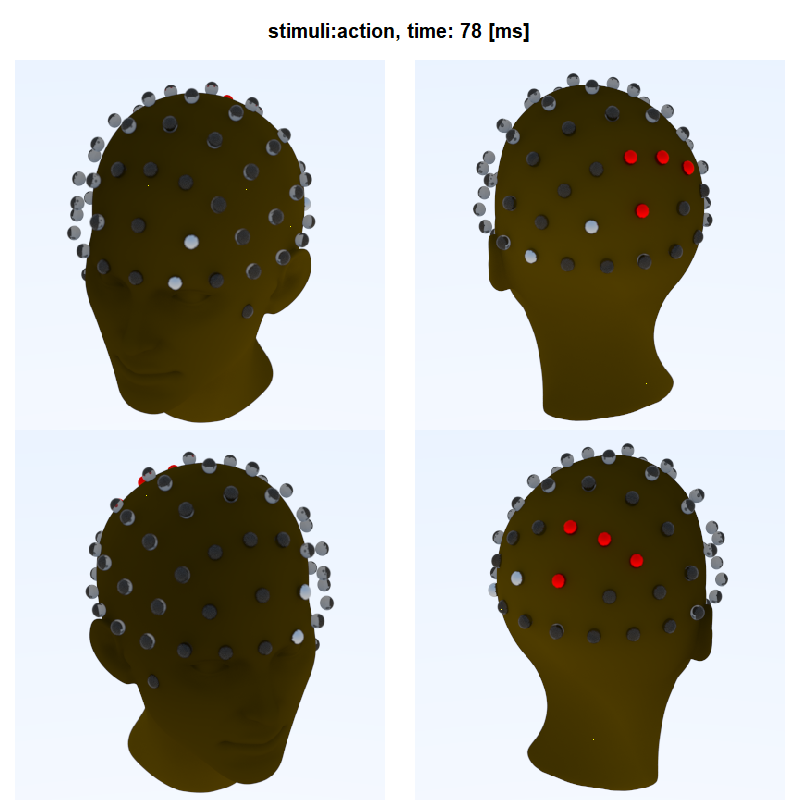
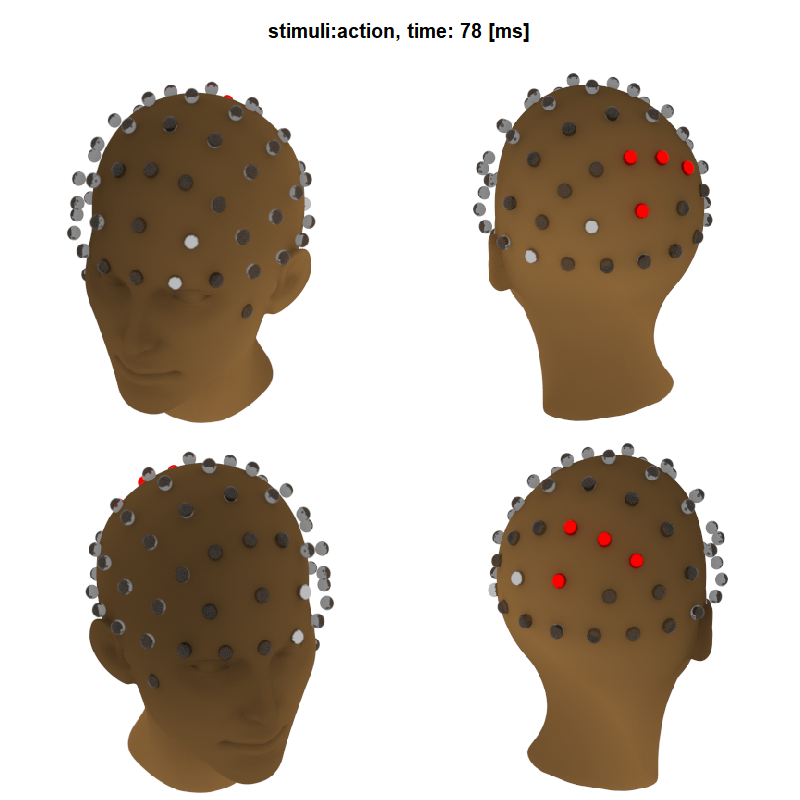
change rayrender

diff --git a/content/post/2019-11-10-visualisation-of-the-cluster-mass-test-using-rayrender/index.html b/content/post/2019-11-10-visualisation-of-the-cluster-mass-test-using-rayrender/index.html
@@ -92,7 +92,7 @@ df &lt;- df%&gt;%
 head_obj &lt;- &quot;FemaleHead/11091_FemaleHead_v4.obj&quot;
 
 ## Define the color of the face
-face_col &lt;- rgb(50,25,00, maxColorValue = 255)
+face_col &lt;- rgb(139,69,19, maxColorValue = 255)
 
 ## Add the face in a scene
 scene_head &lt;- NULL
@@ -104,7 +104,7 @@ scene_head &lt;- scene_head%&gt;%
 render_scene(scene_head)</code></pre>
 <p><img src="/img/head.png" /></p>
 <p>Using the default setting the point of view of the image is not interesting. We will change it for the final results by adjusting parameters in the render_scene() function. If you are not familiar with <a href="http://www.rayrender.net/">rayrender</a>, feel free to change scale, colors angle and material to see their effects on the image.</p>
-<p>Next we construct the headset by assembling several spheres representing each electrode. We will display the tests of the 40th time-point (78 ms). Electrodes in metallic-red are inside a significant cluster, in metallic grey are inside a non-significant cluster and the transparent one are not part of a cluster. Using <a href="http://www.rayrender.net/">rayrender</a>, we construct all 64 electrodes in the appropriate position, using a for loop and, using the group_objects() function, we group them into a unique 3D object that we can manipulate. By trial and error, we found the best translation, rotation and re-scale of the headset to fit it on the head.</p>
+<p>Next we construct the headset by assembling several spheres representing each electrode. We will display the tests of the 40th time-point (78 ms). Electrodes in metallic-red are inside a significant cluster, in metallic grey are inside a non-significant cluster and the transparent one are not part of a cluster. We construct all 64 electrodes in their appropriate position defined in the xls fiel (<a href="https://www.biosemi.com" class="uri">https://www.biosemi.com</a>) using a for loop. Finally, using the group_objects() function, we group them into a unique 3D object. It allows to manipulate all electrodes together, as a headset. By trial and error, we found the best translation, rotation and re-scale of the headset to fit it on the head.</p>
 <pre class="r"><code>## Define colors of the electodes
 red_col &lt;- rgb(255,0,0,maxColorValue = 255)
 grey_col &lt;- rgb(128,128,128,maxColorValue = 255)
@@ -139,32 +139,30 @@ for(channeli in 1:nrow(df_ti)){
 ## Group the electrode into a headset, finale rescale of the electrode.
 headset &lt;- group_objects(eeg_object,group_translate = c(0,1.45,.2),
                             group_angle = c(90,0,0),group_scale = 1.15*c(.92,1,1))</code></pre>
-<p>Next we add the headset to the scene containing the head only.</p>
+<p>Next we add the headset to the scene containing only the head.</p>
 <pre class="r"><code>## Add the headset on the scene/head
 scene &lt;- 
   scene_head%&gt;%
   add_object(headset)</code></pre>
-<p>Finally we plot 4 different points of view in order to have preview of the effect. The computation may take a long time so you try lower quality setting first.</p>
+<p>Finally we plot 4 different points of view in order to have the best preview of the effect. The computation may take a long time so you try lower quality setting first if you want to change the points of view.</p>
 <pre class="r"><code>## select the point of view
-lookfrom_list &lt;- list(c(3,5,7),
-                     c(3,5,-7),
-                     c(-3,5,7),
-                     c(-3,5,-7))
+lookfrom_list &lt;- list(c(3,5,7), c(3,5,-7),
+                     c(-3,5,7), c(-3,5,-7))
 
-lookat_list &lt;- list(c(0,.75,0),
-                   c(0,.8,0),
-                   c(0,.75,0),
-                   c(0,.8,0))
+lookat_list &lt;- list(c(0,.75,0), c(0,.8,0),
+                   c(0,.75,0), c(0,.8,0))
 
 ## select the quality of the scene
-sample &lt;- 2000 # 20 
-width &lt;- height &lt;- 400 # 200
+sample &lt;- 400 # 20
+width &lt;- height &lt;- 400 # 200 
+bg_col &lt;- rgb(255,255,255,maxColorValue = 255,alpha = 0)
 
 par(mfrow = c(2,2), oma = c(0,0,5,0), mar = c(0,0,0,0))
 for(i in 1:4){
-  render_scene(scene, parallel = TRUE, lookfrom = lookfrom_list[[i]],
-               lookat = lookat_list[[i]], ambient_light = TRUE,
-               sample = sample, width = width ,height = height)
+  render_scene(scene, parallel=TRUE,lookfrom=lookfrom_list[[i]],
+               lookat = lookat_list[[i]],ambient_light =T,
+               backgroundhigh = bg_col,  backgroundlow =bg_col,
+               sample=sample,width = width ,height=height)
 }
 title_txt &lt;- paste0(names(model$multiple_comparison)[[effect]],&quot;, time: &quot;,round(ti/512*1000),&quot; [ms]&quot;)
 title(main = title_txt, outer = T, cex.main = 2)</code></pre>
@@ -199,15 +197,16 @@ title(main = title_txt, outer = T, cex.main = 2)</code></pre>
     add_object(head_set)
 
   ## select the quality of the scene
-  sample &lt;- 2000 #20
+  sample &lt;- 400 #20
   width &lt;- height &lt;- 400 #200
   
   png(filename = paste0(&quot;img/img&quot;,sprintf(&quot;%04d&quot;,ti),&quot;.png&quot;), width = 800, height = 800)
   par(mfrow = c(2,2), oma = c(0,0,5,0), mar = c(0,0,0,0))
   for(i in 1:4){
-    render_scene(scene, parallel = TRUE,lookfrom = lookfrom_list[[i]],
-                 lookat = lookat_list[[i]], ambient_light = TRUE,
-                 sample = sample, width = width, height = height)
+    render_scene(scene, parallel=TRUE,lookfrom=lookfrom_list[[i]],
+                 lookat = lookat_list[[i]],ambient_light =T,
+                 backgroundhigh = bg_col,  backgroundlow =bg_col,
+                 sample = sample, width = width ,height=height)
   }
   title_txt &lt;- paste0(names(model$multiple_comparison)[[effect]],&quot;, time: &quot;,
                      round(ti/512*1000),&quot; [ms]&quot;)
